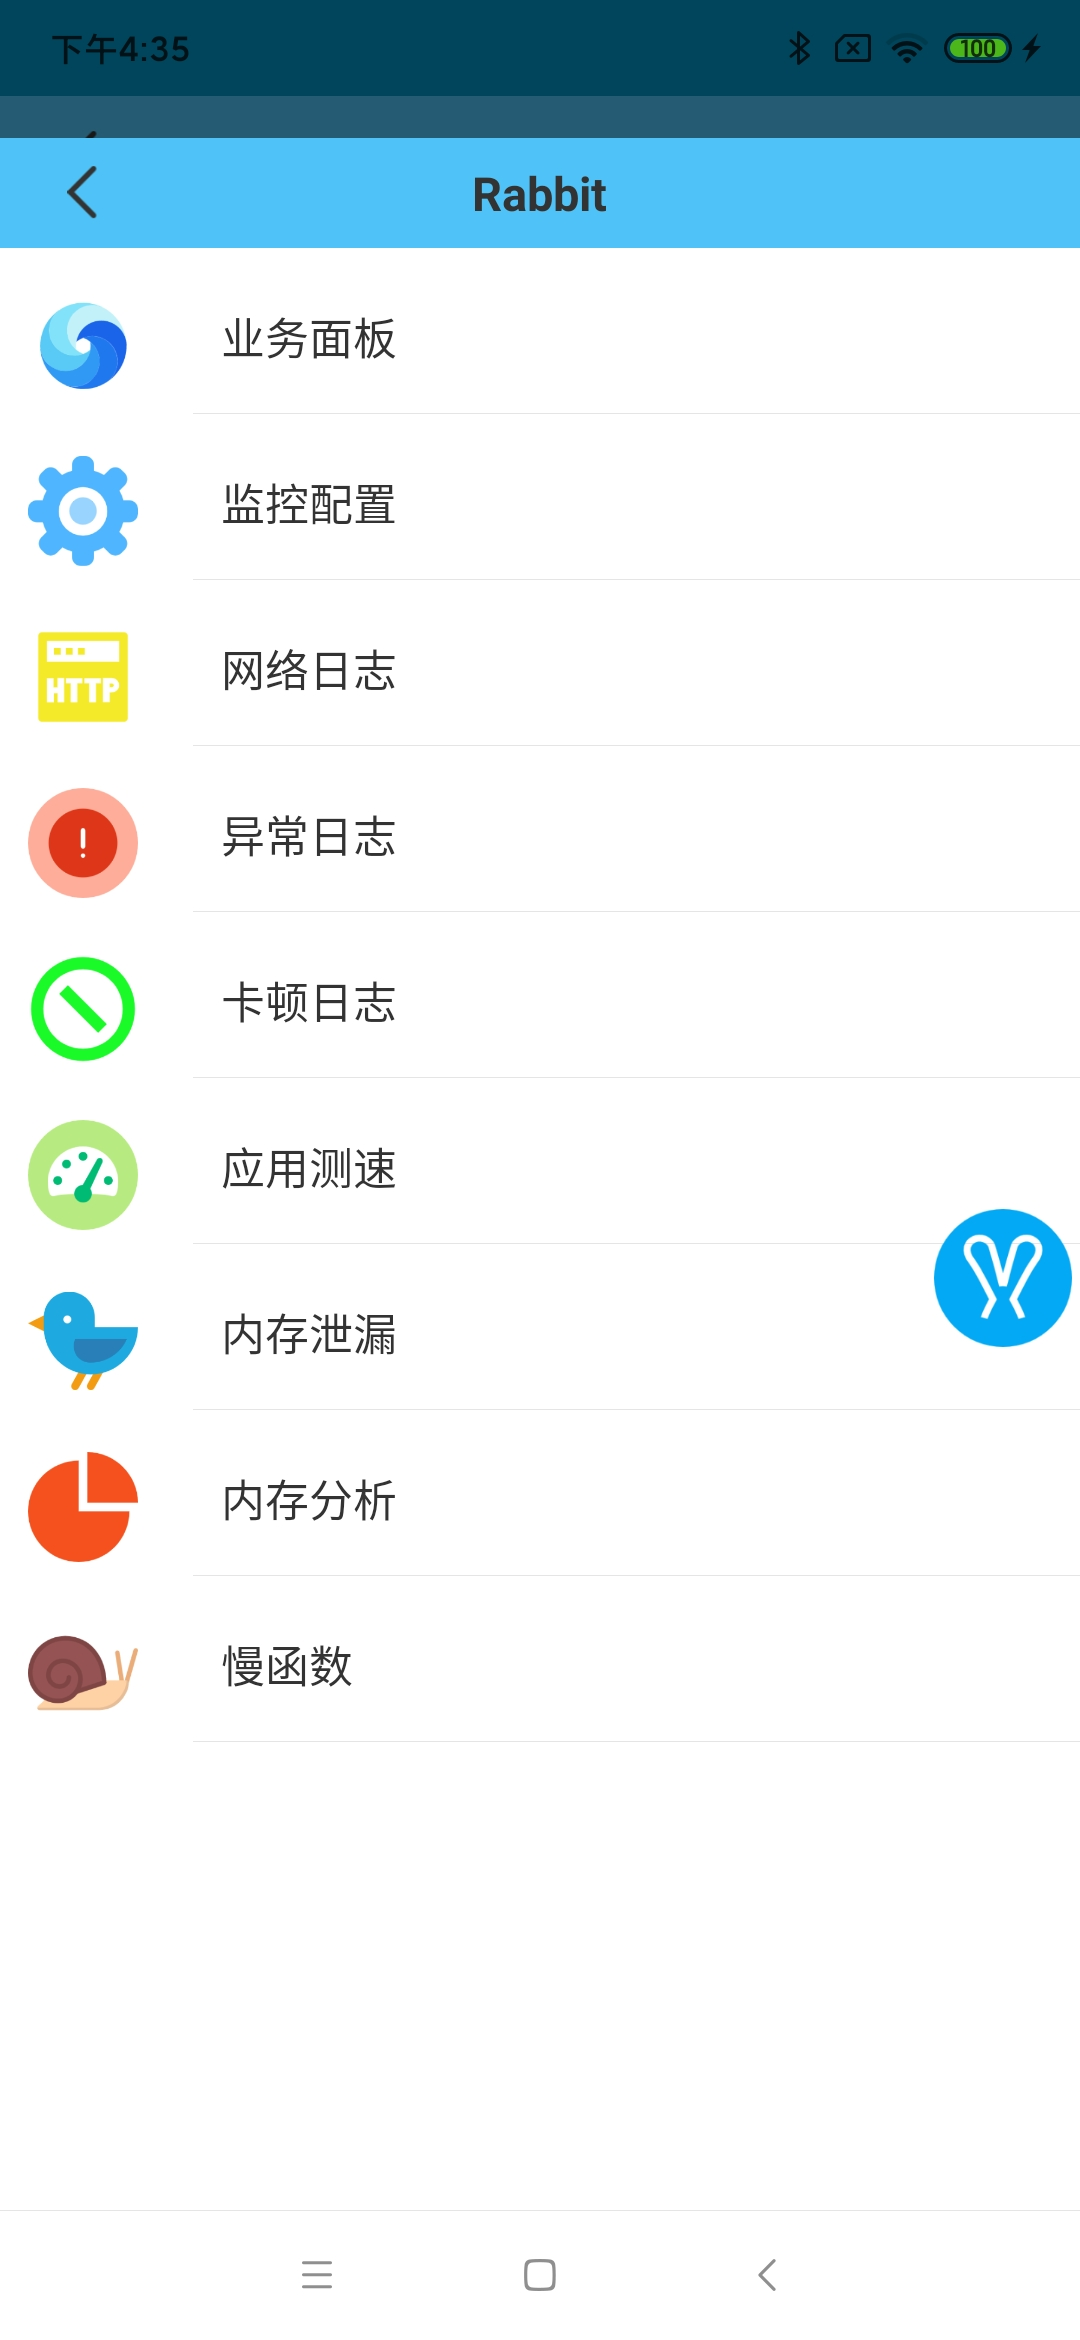
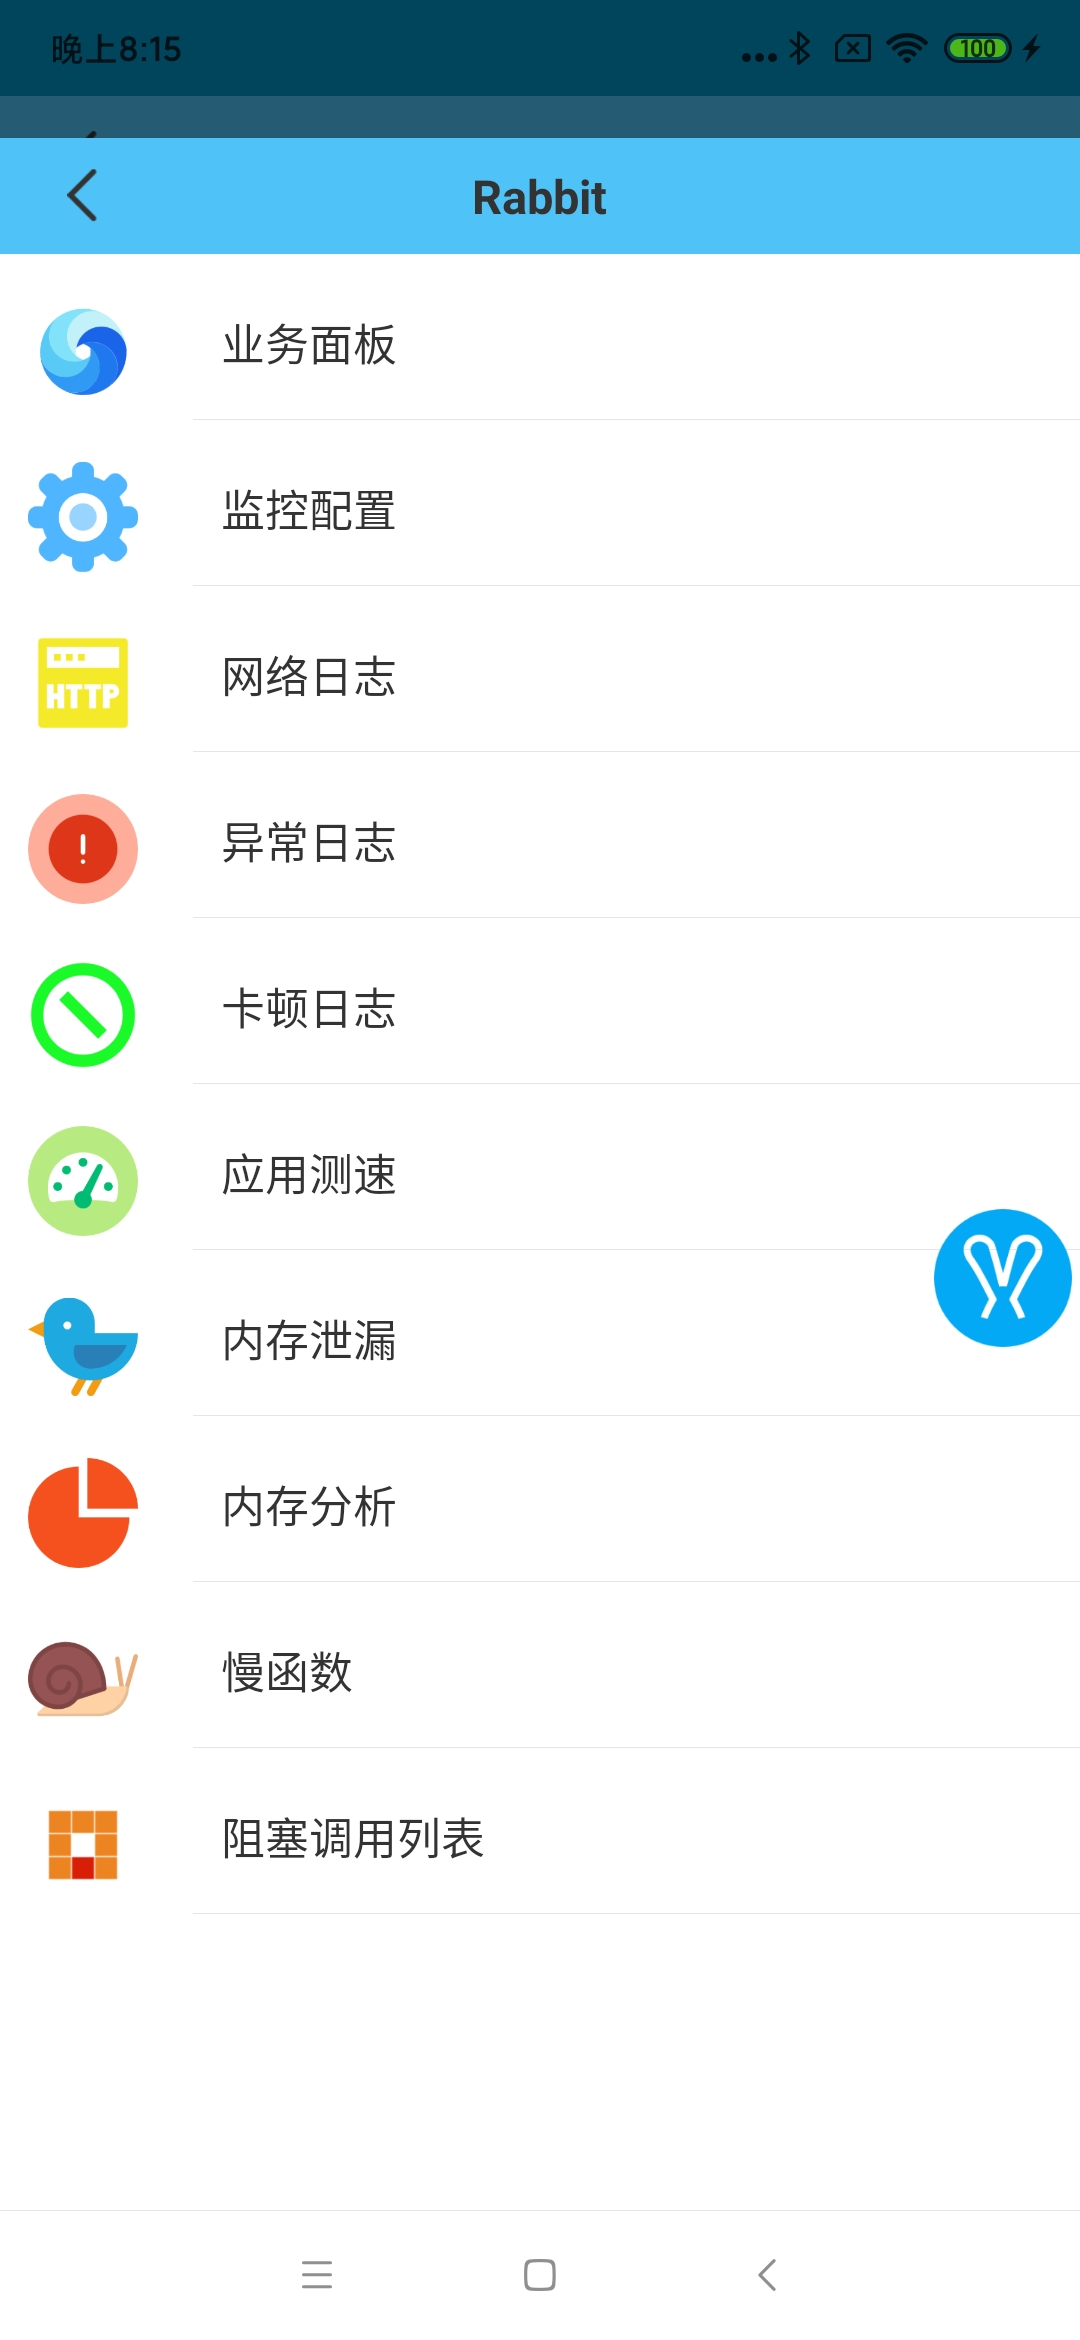
完善文档

diff --git a/documents/block-code-monitor.md b/documents/block-code-monitor.md
@@ -1,0 +1,48 @@
+# 阻塞代码检测
+
+`rabbit`可以检测出应用中的阻塞代码,比如下面这段代码:
+
+```
+//涉及IO操作的代码
+getSharedPreferences("test", Context.MODE_PRIVATE).edit().putBoolean("111", true).commit()
+```
+
+## 定义扫描范围
+
+可以通过`rabbit gradle dsl`定义阻塞代码扫描范围:
+
+>xxx.gradle
+```
+rabbitConfig {
+    //阻塞代码扫描范围
+    blockCodePkg = ['com.susion.rabbit.demo']
+}
+```
+
+`rabbit`会在编译时扫描出这些代码，然后你在`rabbit`面板中就可以查看它们是被谁调用:
+
+![pic](picture/rabbit-block-code.jpg)
+
+>点击可以查看更详细的调用情况。
+
+## 导出扫描结果
+
+点击面板右上角的导出按钮，这些阻塞代码就会被导出到SD卡上，路径为:
+
+```
+/{SDcard}/Rabbit/blockCall.txt
+```
+
+## 自定义API扫描列表
+
+`rabbit`默认的阻塞代码列表位于:[DEFAULT_BLOCK_APIS](https://github.com/SusionSuc/rabbit-client/blob/master/rabbit-gradle-transform/src/main/java/com/susion/rabbit/gradle/utils/IoScanApiList.kt)
+
+也可以自定义这个API列表:
+
+>xxx.gradle
+```
+rabbitConfig {
+    //自定义阻塞代码点
+    customBlockCodeCheckList = ['com/susion/rabbit/demo/MainActivity.fakeBlockCode()V']
+}
+```

diff --git a/documents/gradle-plugin-config-demo.md b/documents/gradle-plugin-config-demo.md
@@ -1,0 +1,37 @@
+# 插件配置示例
+
+下面包含了`rabbit grale plugin`所支持的所有配置:
+
+>[配置示例](https://github.com/SusionSuc/rabbit-client/blob/master/buildSystem/rabbit-plugin.gradle)
+
+```
+ rabbitConfig {
+    //是否启动字节码插桩; 状态切换应clean工程
+    enable = true
+
+    // 应用测速
+    enableSpeedCheck = true
+
+    // 阻塞代码调用
+    enableBlockCodeCheck = true
+
+    //方法耗时
+    enableMethodCostCheck = true
+
+    // 编译时打印插桩log
+    printLog = true
+
+    //应用测速扫描范围
+    pageSpeedMonitorPkgs = ['com.susion.rabbit.demo']
+
+    //函数耗时扫描范围
+    methodMonitorPkgs = ['com.susion.rabbit.demo', 'com.susion.rabbit.demo.page']
+
+    //阻塞代码扫描范围
+    blockCodePkg = ['com.susion.rabbit.demo']
+
+    //自定义阻塞代码点
+    customBlockCodeCheckList = ['com/susion/rabbit/demo/MainActivity.fakeBlockCode()V']
+}
+```
+

diff --git a/documents/README.md b/documents/README.md
@@ -4,6 +4,7 @@
 
 - [应用测速](./speed-monitor.md)
 - [慢函数检测](./slow-method-monitor.md)
+- [阻塞代码检测](./block-code-monitor.md)
 - [网络日志监控](./net-log-monitor.md)
 - [卡顿日志监控](./block-log-monitor.md)
 - [FPS和内存监控](./memory-fps-monitor.md)
@@ -13,6 +14,7 @@
 - [数据上报](./data-report.md)
 - [noop包接入](./noop-document.md)
 - [日志逻辑](./log-document.md)
+- [gradle插件配置示例](./gradle-plugin-config-demo.md)
 - [开发计划](./develop-plan.md)
 
 ## 快速使用

diff --git a/README.md b/README.md
@@ -13,8 +13,9 @@
 8. apk内容分析与优化
 9. 应用内存分析
 10. 慢函数检测 
-11. 监控数据上报
-12. 自定义业务面板
+11. 阻塞代码扫描
+12. 监控数据上报
+13. 自定义业务面板
 
 # [使用文档](./documents/README.md)
 
@@ -24,7 +25,7 @@
 
 # 贡献代码
 
-如果你对`rabbit`比较感兴趣，或者发现`rabbit`还有一些功能不够完善，欢迎提`mr`。
+如果你对`rabbit`比较感兴趣，或者发现`rabbit`还有一些功能不够完善，欢迎提`pr`。
 
 # License
 
